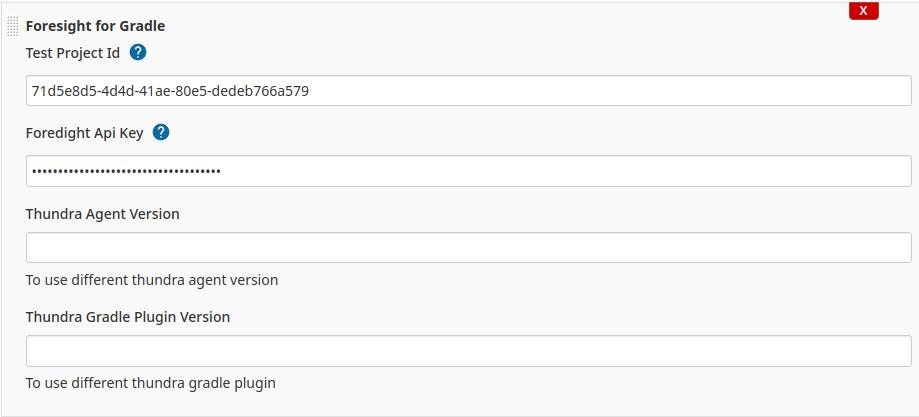
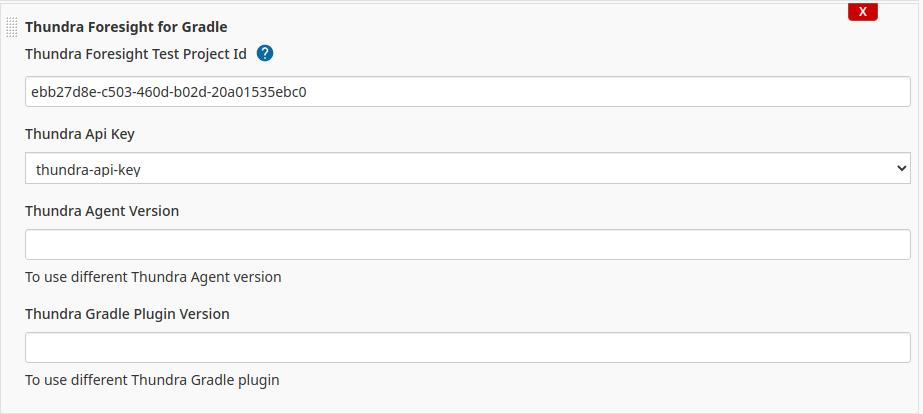
secret changed to credentials (#7)
* secret changed to credentials

* review fixes

diff --git a/src/main/resources/io/thundra/foresight/GradleForesightBuilder/help-apiKey.html b/src/main/resources/io/thundra/foresight/GradleForesightBuilder/help-apiKey.html
@@ -1,3 +1,3 @@
 <div>
-    Thundra Api Key
+    Credential for Thundra Api Key
 </div>

diff --git a/src/main/resources/io/thundra/foresight/MvnForesightBuilder/help-apiKey.html b/src/main/resources/io/thundra/foresight/MvnForesightBuilder/help-apiKey.html
@@ -1,3 +1,3 @@
 <div>
-    Thundra Api Key
+    Credential for Thundra Api Key
 </div>

diff --git a/src/main/java/io/thundra/foresight/GradleForesightBuilder.java b/src/main/java/io/thundra/foresight/GradleForesightBuilder.java
@@ -1,5 +1,13 @@
 package io.thundra.foresight;
 
+import com.cloudbees.plugins.credentials.Credentials;
+import com.cloudbees.plugins.credentials.CredentialsMatchers;
+import com.cloudbees.plugins.credentials.CredentialsProvider;
+import com.cloudbees.plugins.credentials.common.StandardCredentials;
+import com.cloudbees.plugins.credentials.common.StandardListBoxModel;
+import com.cloudbees.plugins.credentials.common.StandardUsernameCredentials;
+import com.cloudbees.plugins.credentials.common.StandardUsernamePasswordCredentials;
+import com.cloudbees.plugins.credentials.domains.DomainRequirement;
 import freemarker.template.Configuration;
 import freemarker.template.Template;
 import freemarker.template.TemplateException;
@@ -8,23 +16,32 @@ import hudson.Extension;
 import hudson.FilePath;
 import hudson.Launcher;
 import hudson.model.AbstractProject;
+import hudson.model.Item;
 import hudson.model.Run;
 import hudson.model.TaskListener;
+import hudson.security.ACL;
 import hudson.tasks.BuildStepDescriptor;
 import hudson.tasks.Builder;
+import hudson.util.ListBoxModel;
 import hudson.util.Secret;
 import io.thundra.foresight.exceptions.AgentNotFoundException;
 import io.thundra.foresight.exceptions.PluginNotFoundException;
+import jenkins.model.Jenkins;
 import jenkins.tasks.SimpleBuildStep;
 import org.apache.commons.lang.StringUtils;
 import org.jenkinsci.Symbol;
+import org.jenkinsci.plugins.plaincredentials.StringCredentials;
+import org.kohsuke.stapler.AncestorInPath;
 import org.kohsuke.stapler.DataBoundConstructor;
 import org.kohsuke.stapler.DataBoundSetter;
+import org.kohsuke.stapler.QueryParameter;
 
 import javax.xml.stream.XMLStreamException;
 import java.io.*;
 import java.nio.charset.StandardCharsets;
+import java.util.Collections;
 import java.util.HashMap;
+import java.util.List;
 import java.util.Map;
 
 public class GradleForesightBuilder extends Builder implements SimpleBuildStep {
@@ -35,13 +52,13 @@ public class GradleForesightBuilder extends Builder implements SimpleBuildStep {
     public static final String THUNDRA_AGENT_TEST_PROJECT_ID = "THUNDRA_AGENT_TEST_PROJECT_ID";
     public static final String THUNDRA_APIKEY = "THUNDRA_APIKEY";
     private final String projectId;
-    private final Secret apiKey;
+    private final String credentialId;
     private String thundraGradlePluginVersion;
     private String thundraAgentVersion;
 
     @DataBoundConstructor
-    public GradleForesightBuilder(String projectId, Secret apiKey) {
-        this.apiKey = apiKey;
+    public GradleForesightBuilder(String projectId, String credentialId) {
+        this.credentialId = credentialId;
         this.projectId = projectId;
     }
 
@@ -49,8 +66,8 @@ public class GradleForesightBuilder extends Builder implements SimpleBuildStep {
         return projectId;
     }
 
-    public Secret getApiKey() {
-        return apiKey;
+    public String getCredentialId() {
+        return credentialId;
     }
 
     public String getThundraGradlePluginVersion() {
@@ -75,8 +92,12 @@ public class GradleForesightBuilder extends Builder implements SimpleBuildStep {
     public void perform(Run<?, ?> run, FilePath workspace, Launcher launcher, TaskListener listener) throws InterruptedException, IOException {
         try {
             listener.getLogger().println("GradleForesight");
-            if (StringUtils.isEmpty(apiKey.getPlainText()) || StringUtils.isEmpty(projectId)) {
-                return;
+            if (StringUtils.isEmpty(credentialId) || StringUtils.isEmpty(projectId)) {
+                throw new IOException("Required parameters are missing");
+            }
+            StringCredentials apiKeyCredentials = CredentialsProvider.findCredentialById(credentialId, StringCredentials.class, run);
+            if (apiKeyCredentials == null) {
+                throw new IOException("Wrong credentials provided");
             }
             String version = null;
 
@@ -86,11 +107,10 @@ public class GradleForesightBuilder extends Builder implements SimpleBuildStep {
             String pluginVersion = StringUtils.isNotEmpty(thundraGradlePluginVersion) ? thundraGradlePluginVersion : ThundraUtils.getLatestPluginVersion();
             listener.getLogger().println("Latest Plugin Version : " + pluginVersion);
             final Configuration cfg = getFreemarkerConfiguration();
-
             final Map<String, String> root = new HashMap<>();
             root.put(THUNDRA_GRADLE_PLUGIN_VERSION, pluginVersion);
             root.put(THUNDRA_AGENT_PATH, filePath.toString());
-            root.put(THUNDRA_APIKEY, apiKey.getPlainText());
+            root.put(THUNDRA_APIKEY, apiKeyCredentials.getSecret().getPlainText());
             root.put(THUNDRA_AGENT_TEST_PROJECT_ID, projectId);
             String initScriptFile = "thundra.gradle";
             final Template template = cfg.getTemplate(THUNDRAINIT_FTLH);
@@ -139,6 +159,23 @@ public class GradleForesightBuilder extends Builder implements SimpleBuildStep {
         @Override
         public String getDisplayName() {
             return Messages.GradleForesightBuilder_DescriptorImpl_DisplayName();
+        }
+
+        public ListBoxModel doFillCredentialIdItems(
+                @AncestorInPath Item item
+        ) {
+            List<DomainRequirement> domainRequirements = Collections.emptyList();
+            return new StandardListBoxModel()
+                    .includeEmptyValue()
+                    .includeMatchingAs(
+                            ACL.SYSTEM,
+                            item,
+                            StandardCredentials.class,
+                            domainRequirements,
+                            CredentialsMatchers.anyOf(
+                                    CredentialsMatchers.instanceOf(StringCredentials.class)
+                            )
+                    );
         }
 
     }

diff --git a/src/main/java/io/thundra/foresight/MvnForesightBuilder.java b/src/main/java/io/thundra/foresight/MvnForesightBuilder.java
@@ -1,13 +1,21 @@
 package io.thundra.foresight;
 
+import com.cloudbees.plugins.credentials.CredentialsMatchers;
+import com.cloudbees.plugins.credentials.CredentialsProvider;
+import com.cloudbees.plugins.credentials.common.StandardCredentials;
+import com.cloudbees.plugins.credentials.common.StandardListBoxModel;
+import com.cloudbees.plugins.credentials.domains.DomainRequirement;
 import hudson.Extension;
 import hudson.FilePath;
 import hudson.Launcher;
 import hudson.model.AbstractProject;
+import hudson.model.Item;
 import hudson.model.Run;
 import hudson.model.TaskListener;
+import hudson.security.ACL;
 import hudson.tasks.BuildStepDescriptor;
 import hudson.tasks.Builder;
+import hudson.util.ListBoxModel;
 import hudson.util.Secret;
 import io.thundra.foresight.exceptions.AgentNotFoundException;
 import io.thundra.plugin.maven.test.instrumentation.checker.FailsafeChecker;
@@ -19,6 +27,8 @@ import org.apache.logging.log4j.LogManager;
 import org.apache.logging.log4j.Logger;
 import org.apache.maven.model.io.xpp3.MavenXpp3Reader;
 import org.jenkinsci.Symbol;
+import org.jenkinsci.plugins.plaincredentials.StringCredentials;
+import org.kohsuke.stapler.AncestorInPath;
 import org.kohsuke.stapler.DataBoundConstructor;
 import org.kohsuke.stapler.DataBoundSetter;
 
@@ -27,6 +37,8 @@ import java.io.File;
 import java.io.FileInputStream;
 import java.io.FileOutputStream;
 import java.io.IOException;
+import java.util.Collections;
+import java.util.List;
 import java.util.UUID;
 import java.util.concurrent.atomic.AtomicBoolean;
 
@@ -34,12 +46,12 @@ public class MvnForesightBuilder extends Builder implements SimpleBuildStep {
 
     private static final Logger logger = LogManager.getLogger(MvnForesightBuilder.class);
     private final String projectId;
-    private final Secret apiKey;
+    private final String credentialId;
     private String thundraAgentVersion;
 
     @DataBoundConstructor
-    public MvnForesightBuilder(String projectId, Secret apiKey) {
-        this.apiKey = apiKey;
+    public MvnForesightBuilder(String projectId, String credentialId) {
+        this.credentialId = credentialId;
         this.projectId = projectId;
     }
 
@@ -47,8 +59,8 @@ public class MvnForesightBuilder extends Builder implements SimpleBuildStep {
         return projectId;
     }
 
-    public Secret getApiKey() {
-        return apiKey;
+    public String getCredentialId() {
+        return credentialId;
     }
 
     public String getThundraAgentVersion() {
@@ -63,9 +75,13 @@ public class MvnForesightBuilder extends Builder implements SimpleBuildStep {
     @Override
     public void perform(Run<?, ?> run, FilePath workspace, Launcher launcher, TaskListener listener) throws InterruptedException, IOException {
         try {
+            StringCredentials apiKeyCredentials = CredentialsProvider.findCredentialById(credentialId, StringCredentials.class, run);
+            if (apiKeyCredentials == null) {
+                throw new IOException("Wrong credentials provided");
+            }
             String version = StringUtils.isNotEmpty(thundraAgentVersion)? thundraAgentVersion : ThundraUtils.getLatestThundraVersion();
             FilePath filePath = ThundraUtils.downloadThundraAgent(workspace, version);
-            String agentConfigurations = getAgentConfigurations(filePath.toString());
+            String agentConfigurations = getAgentConfigurations(filePath.toString(), apiKeyCredentials.getSecret().getPlainText());
             FilePath[] pomFiles = workspace.list("**/pom.xml");
             listener.getLogger().println("Executing maven instrumentation ...");
             listener.getLogger().printf("Found %s pom.xml files%n", pomFiles.length);
@@ -113,14 +129,14 @@ public class MvnForesightBuilder extends Builder implements SimpleBuildStep {
         }
     }
 
-    public String getAgentConfigurations(String agentPath) {
+    public String getAgentConfigurations(String agentPath, String apiKey) {
         //FIXME why test run id is random uuid?
         String thundraUrl = System.getenv(ThundraUtils.THUNDRA_URL_ENV);
         String restBaseUrlParam = StringUtils.isNotEmpty(thundraUrl) ? " -Dthundra.agent.report.rest.baseurl="
                 + thundraUrl : "";
         agentPath = agentPath + restBaseUrlParam;
         agentPath += (String.format(" -Dthundra.apiKey=%s -Dthundra.agent.test.project.id=%s" +
-                " -Dthundra.agent.test.run.id=%s", apiKey.getPlainText(), projectId, UUID.randomUUID().toString()));
+                " -Dthundra.agent.test.run.id=%s", apiKey, projectId, UUID.randomUUID().toString()));
 
         return agentPath;
     }
@@ -137,6 +153,23 @@ public class MvnForesightBuilder extends Builder implements SimpleBuildStep {
         @Override
         public String getDisplayName() {
             return Messages.MvnForesightBuilder_DescriptorImpl_DisplayName();
+        }
+
+        public ListBoxModel doFillCredentialIdItems(
+                @AncestorInPath Item item
+        ) {
+            List<DomainRequirement> domainRequirements = Collections.emptyList();
+            return new StandardListBoxModel()
+                    .includeEmptyValue()
+                    .includeMatchingAs(
+                            ACL.SYSTEM,
+                            item,
+                            StandardCredentials.class,
+                            domainRequirements,
+                            CredentialsMatchers.anyOf(
+                                    CredentialsMatchers.instanceOf(StringCredentials.class)
+                            )
+                    );
         }
 
     }

diff --git a/README.md b/README.md
@@ -28,7 +28,9 @@ Foresight's plugin automatically detects which runtime you have. Learn more abou
 To install Foresight plugin, go to the Plugin Manager and search for “Thundra Foresight Plugin” and install the plugin.
 ![alt text](images/plugin_install.jpg "Plugin Install")
 
-After installing the plugin, select the project you want to enable Thundra Foresight, or create a new project.
+After installing the plugin, create a global credential for Thundra Foresight Api Key with type Secret Text. Credential creation documentation is [here](https://www.jenkins.io/doc/book/using/using-credentials/#:~:text=From%20the%20Jenkins%20home%20page,Add%20Credentials%20on%20the%20left.)
+
+After creating the secret, select the project you want to enable Thundra Foresight, or create a new project.
 
 Go to the Configurations, and select the **Build Environment** section. Add a build step and select Foresight plugin
 
@@ -46,9 +48,9 @@ Enter your Foresight configurations ProjectId and API Key on the **Build Environ
 
 **For the pipeline projects we can simply add those steps to enable the plugin:**
 
-`mavenForesight(projectId:'<Your-Project-Id>', apiKey: '<Your-Project-Id>')`
+`mavenForesight(projectId:'<Your-Project-Id>', credentialId: '<Your-Credentials-Id>')`
 
-`gradleForesight(projectId:'<Your-Project-Id>', apiKey: '<Your-Project-Id>')`
+`gradleForesight(projectId:'<Your-Project-Id>', credentialId: '<Your-Credentials-Id>')`
 
 ![alt text](images/pipeline.jpg "Pipeline")
 
